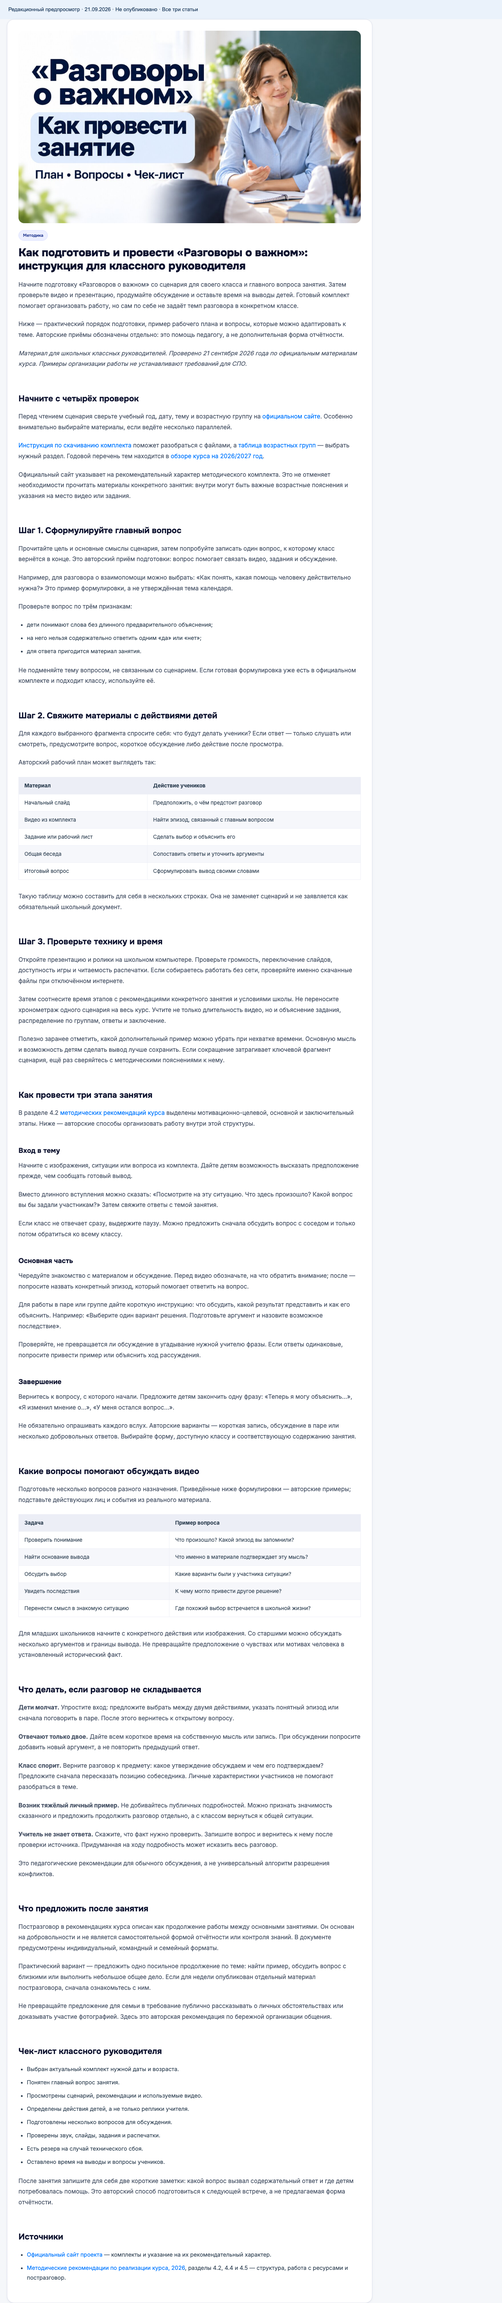
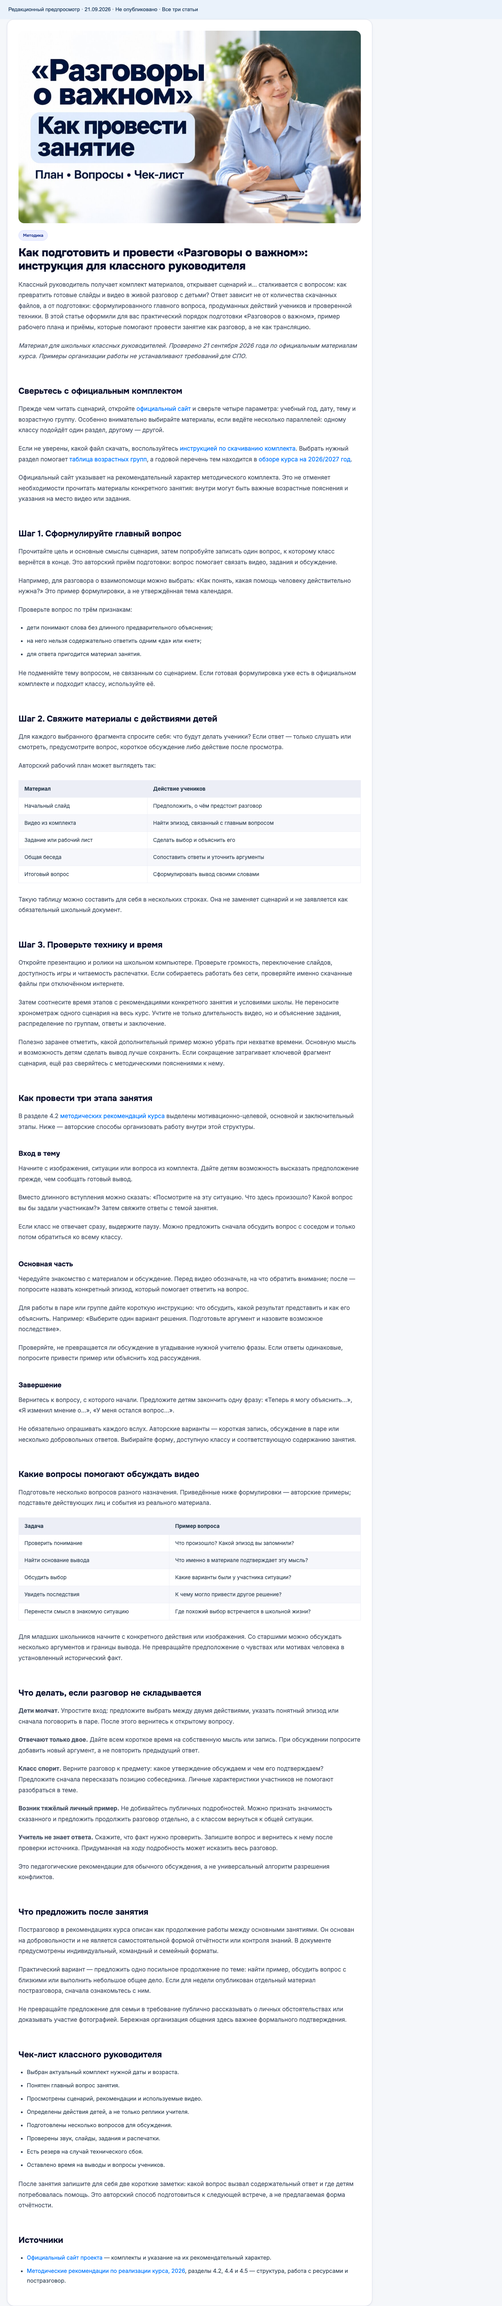
Уточнить статью о Разговорах о важном

diff --git a/editorial/articles/kak-provodit-razgovory-o-vazhnom/article.html b/editorial/articles/kak-provodit-razgovory-o-vazhnom/article.html
@@ -1,9 +1,8 @@
-<p>Начните подготовку «Разговоров о важном» со сценария для своего класса и главного вопроса занятия. Затем проверьте видео и презентацию, продумайте обсуждение и оставьте время на выводы детей. Готовый комплект помогает организовать работу, но сам по себе не задаёт темп разговора в конкретном классе.</p>
-<p>Ниже — практический порядок подготовки, пример рабочего плана и вопросы, которые можно адаптировать к теме. Авторские приёмы обозначены отдельно: это помощь педагогу, а не дополнительная форма отчётности.</p>
+<p>Классный руководитель получает комплект материалов, открывает сценарий и... сталкивается с вопросом: как превратить готовые слайды и видео в живой разговор с детьми? Ответ зависит не от количества скачанных файлов, а от подготовки: сформулированного главного вопроса, продуманных действий учеников и проверенной техники. В этой статье оформили для вас практический порядок подготовки «Разговоров о важном», пример рабочего плана и приёмы, которые помогают провести занятие как разговор, а не как трансляцию.</p>
 <p><em>Материал для школьных классных руководителей. Проверено 21 сентября 2026 года по официальным материалам курса. Примеры организации работы не устанавливают требований для СПО.</em></p>
-<h2>Начните с четырёх проверок</h2>
-<p>Перед чтением сценария сверьте учебный год, дату, тему и возрастную группу на <a href="https://xn--80aafadvc9bifbaeqg0p.xn--p1ai/">официальном сайте</a>. Особенно внимательно выбирайте материалы, если ведёте несколько параллелей.</p>
-<p><a href="/blog/gde-skachat-materialy-razgovory-o-vazhnom/">Инструкция по скачиванию комплекта</a> поможет разобраться с файлами, а <a href="/blog/razgovory-o-vazhnom-po-klassam/">таблица возрастных групп</a> — выбрать нужный раздел. Годовой перечень тем находится в <a href="/blog/razgovory-o-vazhnom-2026-2027/">обзоре курса на 2026/2027 год</a>.</p>
+<h2>Сверьтесь с официальным комплектом</h2>
+<p>Прежде чем читать сценарий, откройте <a href="https://xn--80aafadvc9bifbaeqg0p.xn--p1ai/">официальный сайт</a> и сверьте четыре параметра: учебный год, дату, тему и возрастную группу. Особенно внимательно выбирайте материалы, если ведёте несколько параллелей: одному классу подойдёт один раздел, другому — другой.</p>
+<p>Если не уверены, какой файл скачать, воспользуйтесь <a href="/blog/gde-skachat-materialy-razgovory-o-vazhnom/">инструкцией по скачиванию комплекта</a>. Выбрать нужный раздел помогает <a href="/blog/razgovory-o-vazhnom-po-klassam/">таблица возрастных групп</a>, а годовой перечень тем находится в <a href="/blog/razgovory-o-vazhnom-2026-2027/">обзоре курса на 2026/2027 год</a>.</p>
 <p>Официальный сайт указывает на рекомендательный характер методического комплекта. Это не отменяет необходимости прочитать материалы конкретного занятия: внутри могут быть важные возрастные пояснения и указания на место видео или задания.</p>
 <h2>Шаг 1. Сформулируйте главный вопрос</h2>
 <p>Прочитайте цель и основные смыслы сценария, затем попробуйте записать один вопрос, к которому класс вернётся в конце. Это авторский приём подготовки: вопрос помогает связать видео, задания и обсуждение.</p>
@@ -105,7 +104,7 @@
 <h2>Что предложить после занятия</h2>
 <p>Постразговор в рекомендациях курса описан как продолжение работы между основными занятиями. Он основан на добровольности и не является самостоятельной формой отчётности или контроля знаний. В документе предусмотрены индивидуальный, командный и семейный форматы.</p>
 <p>Практический вариант — предложить одно посильное продолжение по теме: найти пример, обсудить вопрос с близкими или выполнить небольшое общее дело. Если для недели опубликован отдельный материал постразговора, сначала ознакомьтесь с ним.</p>
-<p>Не превращайте предложение для семьи в требование публично рассказывать о личных обстоятельствах или доказывать участие фотографией. Здесь это авторская рекомендация по бережной организации общения.</p>
+<p>Не превращайте предложение для семьи в требование публично рассказывать о личных обстоятельствах или доказывать участие фотографией. Бережная организация общения здесь важнее формального подтверждения.</p>
 <h2>Чек-лист классного руководителя</h2>
 <ul>
 <li>Выбран актуальный комплект нужной даты и возраста.</li>

diff --git a/editorial/articles/kak-provodit-razgovory-o-vazhnom/article.md b/editorial/articles/kak-provodit-razgovory-o-vazhnom/article.md
@@ -1,16 +1,14 @@
 # Как подготовить и провести «Разговоры о важном»: инструкция для классного руководителя
 
-Начните подготовку «Разговоров о важном» со сценария для своего класса и главного вопроса занятия. Затем проверьте видео и презентацию, продумайте обсуждение и оставьте время на выводы детей. Готовый комплект помогает организовать работу, но сам по себе не задаёт темп разговора в конкретном классе.
-
-Ниже — практический порядок подготовки, пример рабочего плана и вопросы, которые можно адаптировать к теме. Авторские приёмы обозначены отдельно: это помощь педагогу, а не дополнительная форма отчётности.
+Классный руководитель получает комплект материалов, открывает сценарий и... сталкивается с вопросом: как превратить готовые слайды и видео в живой разговор с детьми? Ответ зависит не от количества скачанных файлов, а от подготовки: сформулированного главного вопроса, продуманных действий учеников и проверенной техники. В этой статье оформили для вас практический порядок подготовки «Разговоров о важном», пример рабочего плана и приёмы, которые помогают провести занятие как разговор, а не как трансляцию.
 
 *Материал для школьных классных руководителей. Проверено 21 сентября 2026 года по официальным материалам курса. Примеры организации работы не устанавливают требований для СПО.*
 
-## Начните с четырёх проверок
+## Сверьтесь с официальным комплектом
 
-Перед чтением сценария сверьте учебный год, дату, тему и возрастную группу на [официальном сайте](https://xn--80aafadvc9bifbaeqg0p.xn--p1ai/). Особенно внимательно выбирайте материалы, если ведёте несколько параллелей.
+Прежде чем читать сценарий, откройте [официальный сайт](https://xn--80aafadvc9bifbaeqg0p.xn--p1ai/) и сверьте четыре параметра: учебный год, дату, тему и возрастную группу. Особенно внимательно выбирайте материалы, если ведёте несколько параллелей: одному классу подойдёт один раздел, другому — другой.
 
-[Инструкция по скачиванию комплекта](/blog/gde-skachat-materialy-razgovory-o-vazhnom/) поможет разобраться с файлами, а [таблица возрастных групп](/blog/razgovory-o-vazhnom-po-klassam/) — выбрать нужный раздел. Годовой перечень тем находится в [обзоре курса на 2026/2027 год](/blog/razgovory-o-vazhnom-2026-2027/).
+Если не уверены, какой файл скачать, воспользуйтесь [инструкцией по скачиванию комплекта](/blog/gde-skachat-materialy-razgovory-o-vazhnom/). Выбрать нужный раздел помогает [таблица возрастных групп](/blog/razgovory-o-vazhnom-po-klassam/), а годовой перечень тем находится в [обзоре курса на 2026/2027 год](/blog/razgovory-o-vazhnom-2026-2027/).
 
 Официальный сайт указывает на рекомендательный характер методического комплекта. Это не отменяет необходимости прочитать материалы конкретного занятия: внутри могут быть важные возрастные пояснения и указания на место видео или задания.
 
@@ -112,7 +110,7 @@
 
 Практический вариант — предложить одно посильное продолжение по теме: найти пример, обсудить вопрос с близкими или выполнить небольшое общее дело. Если для недели опубликован отдельный материал постразговора, сначала ознакомьтесь с ним.
 
-Не превращайте предложение для семьи в требование публично рассказывать о личных обстоятельствах или доказывать участие фотографией. Здесь это авторская рекомендация по бережной организации общения.
+Не превращайте предложение для семьи в требование публично рассказывать о личных обстоятельствах или доказывать участие фотографией. Бережная организация общения здесь важнее формального подтверждения.
 
 ## Чек-лист классного руководителя
 

diff --git a/editorial/articles/kak-provodit-razgovory-o-vazhnom/review.md b/editorial/articles/kak-provodit-razgovory-o-vazhnom/review.md
@@ -1,19 +1,20 @@
 # Проверка комплекта
 
-Статус: текст и обложка подготовлены для согласования, не опубликованы. Согласие на публикацию не получено.
-Дата: 21.09.2026.
+Статус: статья опубликована. Локально подготовлены правки по обратной связи методиста; production не изменён, отдельного запроса на деплой не было.
+Дата локальной правки: 28.09.2026.
+
+По документу методиста заменён вводный абзац, блок «Начните с четырёх проверок» переименован в «Сверьтесь с официальным комплектом» и уточнён, формулировка о семейном постразговоре смягчена. Новых фактических и нормативных утверждений правка не добавляет.
 
 Содержательная сверка выполнена по claims.md и текущим снимкам первоисточников. Авторские приёмы обозначены отдельно. Нормативных выводов об обязательности посещения и новых формах отчётности нет.
 Обложка сгенерирована встроенным image_gen по присланному пользователем фотографическому референсу; надписи просмотрены. Старый вариант сохранён как неиспользуемый.
 
 editorial-check.php: 0 ошибок, 7 ссылок. add-blog-post.php --validate-only: пройден, БД не подключалась.
[1 lines of base64/hex data omitted]
-Согласование именно этой версии ожидается; хеш не означает полученное согласие.
[1 lines of base64/hex data omitted]
 
-Браузерная проверка локального предпросмотра через Chromium: 1440 и 390 px, все изображения загружены; ширина документа равна ширине окна, H1 один, таблицы помещаются. Снимки и измерения: previews/1440.png, previews/390.png и соответствующие JSON.
+Браузерная проверка обновлённого локального предпросмотра через Chromium: 1440 и 390 px, все изображения загружены; ширина документа равна ширине окна, H1 один, таблицы на мобильном экране прокручиваются внутри статьи. Снимки и измерения: previews/1440.png, previews/390.png и соответствующие JSON.
 Общий каталог проверен с CSS сайта: карточки 16:9, на мобильном две колонки, изображение шириной 172 px. Заголовок и главный акцент читаются и не обрезаны. Нижняя вспомогательная строка при таком размере мелкая; она не несёт единственный смысл карточки. На странице статьи обложка 320×180 при окне 390 px.
 Веб-обложка: 1200×675, JPEG, 111 КБ приблизительно. Визуально проверены все три изображения и каталог на двух ширинах. Предпросмотр использует CSS и структуру карточек сайта, но не является проверкой работающего production или БД.
 Текст Markdown преобразован в HTML; H1 удалён из тела, поскольку его выводит шаблон. Активных вставок нет. Внутренние ссылки в локальном предпросмотре ведут к локальным статьям; в чистовом HTML сохранены будущие адреса /blog/.
-БД и production не изменялись.
+При проверке 28.09.2026 production URL отвечал HTTP 200, но там остаётся прежний текст. БД и production в рамках этой правки не изменялись.
 
-Ограничения: частотности и статистика сайта недоступны в рамках проверки. Внутренние ссылки на три новые статьи рассчитаны на совместную публикацию; до неё адреса не считаются существующими.
+Ограничения: частотности, Вебмастер и статистика сайта в рамках проверки недоступны. Решение сохранять первую и третью статьи принято без данных об их фактическом поисковом трафике; все три внутренних адреса на production доступны.
